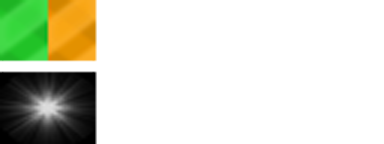
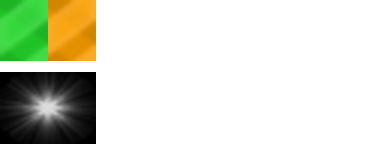
#34199 ドラムのライフゲージの下端がちょっと欠けて表示される問題を修正。
git-svn-id: http://svn.osdn.jp/svnroot/dtxmania/trunk@768 16f42ceb-6dc6-49c8-ba94-f2d53467949d

Changed region(s): [[0.0, 0.4722, 0.25, 0.5278], [0.0, 0.4167, 0.25, 0.4444], [0.0938, 0.1667, 0.125, 0.2222]]

diff --git a/DTXManiaプロジェクト/コード/ステージ/07.演奏/ドラム画面/CAct演奏Drumsゲージ.cs b/DTXManiaプロジェクト/コード/ステージ/07.演奏/ドラム画面/CAct演奏Drumsゲージ.cs
@@ -12,23 +12,6 @@ namespace DTXMania
 	internal class CAct演奏Drumsゲージ : CAct演奏ゲージ共通
 	{
 		// プロパティ
-
-//		public double db現在のゲージ値
-//		{
-//			get
-//			{
-//				return this.dbゲージ値;
-//			}
-//			set
-//			{
-//				this.dbゲージ値 = value;
-//				if( this.dbゲージ値 > 1.0 )
-//				{
-//					this.dbゲージ値 = 1.0;
-//				}
-//			}
-//		}
-
 		
 		// コンストラクタ
 
@@ -76,9 +59,10 @@ namespace DTXMania
 		{
 			if ( !base.b活性化してない )
 			{
+				#region [ 初めての進行描画 ]
 				if ( base.b初めての進行描画 )
 				{
-					for( int k = 0; k < 0x18; k++ )
+					for ( int k = 0; k < 0x18; k++ )
 					{
 						this.st白い星[ k ].x = 2 + CDTXMania.Random.Next( 4 );
 						this.st白い星[ k ].fScale = 0.2f + ( CDTXMania.Random.Next( 2 ) * 0.05f );
@@ -89,172 +73,182 @@ namespace DTXMania
 					this.ct本体振動 = new CCounter( 0, 360, 4, CDTXMania.Timer );
 					base.b初めての進行描画 = false;
 				}
+				#endregion
 				this.ct本体移動.t進行Loop();
 				this.ct本体振動.t進行Loop();
 
+				#region [ Risky残りMiss回数表示 ]
 				if ( this.bRisky && this.actLVLNFont != null )		// #23599 2011.7.30 yyagi Risky残りMiss回数表示
 				{
 					CActLVLNFont.EFontColor efc = this.IsDanger( E楽器パート.DRUMS ) ?
 						CActLVLNFont.EFontColor.Red : CActLVLNFont.EFontColor.Yellow;
-					actLVLNFont.t文字列描画( (int)(12 * Scale.X), (int)(408 * Scale.Y), nRiskyTimes.ToString(), efc, CActLVLNFont.EFontAlign.Right );
+					actLVLNFont.t文字列描画( (int) ( 12 * Scale.X ), (int) ( 408 * Scale.Y ), nRiskyTimes.ToString(), efc, CActLVLNFont.EFontAlign.Right );
 				}
+				#endregion
 
-				int num2 = ( this.dbゲージ値 == 1.0 ) ? ( (int) ( 352.0 * this.dbゲージ値 ) ) : ( (int) ( ( 352.0 * this.dbゲージ値 ) + ( 2.0 * Math.Sin( Math.PI * 2 * ( ( (double) this.ct本体振動.n現在の値 ) / 360.0 ) ) ) ) );
-				if( num2 <= 0 )
+				#region [ 緑orオレンジのゲージ表示 ]
+				const double dbゲージ最大値 = 352.0 * Scale.Y;
+				int n表示するゲージの高さ = ( this.dbゲージ値 == 1.0 ) ?
+					( (int) ( dbゲージ最大値 * this.dbゲージ値 ) ) :
+					( (int) ( ( dbゲージ最大値 * this.dbゲージ値 ) + ( 2.0 * Math.Sin( Math.PI * 2 * ( ( (double) this.ct本体振動.n現在の値 ) / 360.0 ) ) ) ) );
+
+				if ( n表示するゲージの高さ <= 0 )
 				{
 					return 0;
 				}
-				if( this.txゲージ != null )
+				if ( this.txゲージ != null )
 				{
 					this.txゲージ.vc拡大縮小倍率 = new Vector3( 1f, 1f, 1f );
 					this.txゲージ.n透明度 = 0xff;
 					this.txゲージ.b加算合成 = false;
 				}
-				int num3 = this.ct本体移動.n現在の値;
-				int y = ( 0x195 - num2 ) - num3;
-				int num5 = num2 + num3;
-				while( num5 > 0 )
+				int nCtゲージ内部上昇スクロール現在値 = (int) ( this.ct本体移動.n現在の値 * Scale.Y );
+				int n表示ゲージ最大値 = (int) ( 0x195 * Scale.Y );
+				int ybar = ( n表示ゲージ最大値 - n表示するゲージの高さ ) - nCtゲージ内部上昇スクロール現在値;
+				int height = n表示するゲージの高さ + nCtゲージ内部上昇スクロール現在値;
+				while ( height > 0 )
 				{
-					Rectangle rectangle = ( this.dbゲージ値 == 1.0 ) ?
-						new Rectangle( 0x10, 0, 0x10, 0x1b ) :
-						new Rectangle( 0, 0, 0x10, 0x1b );
-					if( y < ( 0x195 - num2 ) )
+					Rectangle rect = ( this.dbゲージ値 == 1.0 ) ?
+						new Rectangle( 48, 0, 48, 61 ) :
+						new Rectangle( 0, 0, 48, 61 );
+					#region [ clipping ]
+					if ( ybar < ( n表示ゲージ最大値 - n表示するゲージの高さ ) )
 					{
-						int num6 = ( 0x195 - num2 ) - y;
-						rectangle.Y += num6;
-						rectangle.Height -= num6;
-						y += num6;
+						int d = ( n表示ゲージ最大値 - n表示するゲージの高さ ) - ybar;
+						rect.Y += d;
+						rect.Height -= d;
+						ybar += d;
 					}
-					if( ( y + rectangle.Height ) > 0x195 )
+					if ( ( ybar + rect.Height ) > n表示ゲージ最大値 )
 					{
-						int num7 = ( y + rectangle.Height ) - 0x195;
-						rectangle.Height -= num7;
+						int num7 = ( ybar + rect.Height ) - n表示ゲージ最大値;
+						rect.Height -= num7;
 					}
-					if( rectangle.Top >= rectangle.Bottom )
+					if ( rect.Top >= rect.Bottom )
 					{
 						break;
 					}
-					Rectangle rectangle1 = rectangle;
+					#endregion
 					if ( this.txゲージ != null )
 					{
-						rectangle.X = (int) ( rectangle.X * Scale.X );
-						rectangle.Y = (int) ( rectangle.Y * Scale.Y );
-						rectangle.Width = (int) ( rectangle.Width * Scale.X );
-						rectangle.Height = (int) ( rectangle.Height * Scale.Y );
 						this.txゲージ.t2D描画(
 							CDTXMania.app.Device,
 							6 * Scale.X,
-							y * Scale.Y,
-							rectangle
+							ybar,
+							rect
 						);
 					}
-					num5 -= rectangle1.Height;
-					y += rectangle1.Height - 1;		// 横線が入る問題を、取り急ぎ対策
+					height -= rect.Height;
+					ybar += rect.Height;
 				}
-				if( this.txゲージ != null )
+				#endregion
+				#region [ 光彩 ]
+				if ( this.txゲージ != null )
 				{
-					this.txゲージ.vc拡大縮小倍率 = new Vector3( 1f, 1f, 1f );
+					//this.txゲージ.vc拡大縮小倍率 = new Vector3( 1f, 1f, 1f );
 					this.txゲージ.n透明度 = 180;
 					this.txゲージ.b加算合成 = true;
 				}
-				for( int i = 0; i < 4; i++ )
+				for ( int i = 0; i < 4; i++ )
 				{
-					Rectangle rectangle2 = new Rectangle(
-						0x40 + ( i * 0x10 ),
+					Rectangle rect = new Rectangle(
+						(int) ( ( 0x40 + ( i * 0x10 ) ) * Scale.X ),
 						0,
-						0x10,
-						0x40
+						(int) ( 0x10 * Scale.X ),
+						(int) ( 0x40 * Scale.Y )
 					);
-					int num9 = ( 0x195 - num2 ) + ( i * 0x40 );
-					if( num9 >= 0x195 )
+					#region [ clipping ]
+					int ylight = ( n表示ゲージ最大値 - n表示するゲージの高さ ) + (int) ( i * 0x40 * Scale.Y );
+					if ( ylight >= n表示ゲージ最大値 )
 					{
 						break;
 					}
-					if( ( num9 + rectangle2.Height ) > 0x195 )
+					if ( ( ylight + rect.Height ) > n表示ゲージ最大値 )
 					{
-						int num10 = ( num9 + rectangle2.Height ) - 0x195;
-						rectangle2.Height -= num10;
+						int d = ( ylight + rect.Height ) - n表示ゲージ最大値;
+						rect.Height -= d;
 					}
-					if( ( rectangle2.Top < rectangle2.Bottom ) && ( this.txゲージ != null ) )
+					#endregion
+					if ( ( rect.Top < rect.Bottom ) && ( this.txゲージ != null ) )
 					{
-						rectangle2.X = (int) ( rectangle2.X * Scale.X );
-						rectangle2.Y = (int) ( rectangle2.Y * Scale.Y + 0.5f );
-						rectangle2.Width = (int) ( rectangle2.Width * Scale.X );
-						rectangle2.Height = (int) ( rectangle2.Height * Scale.Y + 0.5f );
-
 						this.txゲージ.t2D描画(
 							CDTXMania.app.Device,
-							(int)(6 * Scale.X),
-							(int)(num9 * Scale.Y + 0.5f),
-							rectangle2
+							(int) ( 6 * Scale.X ),
+							(int) ( ylight + 0.5f ),
+							rect
 						);
 					}
 				}
-				if( this.txゲージ != null )
+				#endregion
+				#region [ ゲージ頂上の光源 ]
+				if ( this.txゲージ != null )
 				{
-					this.txゲージ.vc拡大縮小倍率 = new Vector3( 1f, 1f, 1f );
+					//this.txゲージ.vc拡大縮小倍率 = new Vector3( 1f, 1f, 1f );
 					this.txゲージ.n透明度 = 0xff;
 					this.txゲージ.b加算合成 = false;
 				}
-				Rectangle rectangle3 = new Rectangle(
-					0x30,
-					0,
-					0x10,
-					0x10
-				);
-				int num11 = 0x195 - num2;
-				if( num11 < 0x195 )
 				{
-					if( ( num11 + rectangle3.Height ) > 0x195 )
+					Rectangle rect = new Rectangle(
+						(int) ( 0x30 * Scale.X ),
+						0,
+						(int) ( 0x10 * Scale.X ),
+						(int) ( 0x10 * Scale.Y )
+					);
+					int yゲージ頂上 = n表示ゲージ最大値 - n表示するゲージの高さ;
+					if ( yゲージ頂上 < n表示ゲージ最大値 )
 					{
-						int num12 = ( num11 + rectangle3.Height ) - 0x195;
-						rectangle3.Height -= num12;
-					}
-					if( ( rectangle3.Top < rectangle3.Bottom ) && ( this.txゲージ != null ) )
-					{
-						rectangle3.X = (int) ( rectangle3.X * Scale.X );
-						rectangle3.Y = (int) ( rectangle3.Y * Scale.Y + 0.5f );
-						rectangle3.Width = (int) ( rectangle3.Width * Scale.X );
-						rectangle3.Height = (int) ( rectangle3.Height * Scale.Y + 0.5f );
-						this.txゲージ.t2D描画(
-							CDTXMania.app.Device,
-							(int)(6*Scale.X),
-							(int)(num11*Scale.Y + 0.5f),
-							rectangle3
-						);
-					}
-				}
-				if( this.txゲージ != null )
-				{
-					this.txゲージ.b加算合成 = true;
-				}
-				for( int j = 0; j < 24; j++ )
-				{
-					this.st白い星[ j ].ct進行.t進行Loop();
-					int x = 6 + this.st白い星[ j ].x;
-					int num15 = ( 0x195 - num2 ) + ( 0x160 - this.st白い星[ j ].ct進行.n現在の値 );
-					int num16 = ( this.st白い星[ j ].ct進行.n現在の値 < 0xb0 ) ? 0 : ( (int) ( 255.0 * ( ( (double) ( this.st白い星[ j ].ct進行.n現在の値 - 0xb0 ) ) / 176.0 ) ) );
-					if( ( num16 != 0 ) && ( num15 < 0x191 ) )
-					{
-						Rectangle rectangle4 = new Rectangle(
-							(int)(0*Scale.X),
-							(int)(0x20*Scale.Y),
-							(int) ( 0x20 * Scale.X ),
-							(int)(0x20*Scale.Y)
-						);
-						if( this.txゲージ != null )
+						#region [ clipping ]
+						if ( ( yゲージ頂上 + rect.Height ) > n表示ゲージ最大値 )
 						{
-							this.txゲージ.vc拡大縮小倍率 = new Vector3( this.st白い星[ j ].fScale, this.st白い星[ j ].fScale, 1f );
-							this.txゲージ.n透明度 = num16;
+							int d = ( yゲージ頂上 + rect.Height ) - n表示ゲージ最大値;
+							rect.Height -= d;
+						}
+						#endregion
+						if ( ( rect.Top < rect.Bottom ) && ( this.txゲージ != null ) )
+						{
 							this.txゲージ.t2D描画(
 								CDTXMania.app.Device,
-								(int)(x*Scale.X),
-								(int)(num15*Scale.Y+0.5f),
-								rectangle4
+								(int) ( 6 * Scale.X ),
+								(int) ( yゲージ頂上 + 0.5f ),
+								rect
 							);
 						}
 					}
 				}
+				#endregion
+				#region [ 泡 ]
+				if ( this.txゲージ != null )
+				{
+				    this.txゲージ.b加算合成 = true;
+				}
+				for ( int j = 0; j < 24; j++ )
+				{
+				    this.st白い星[ j ].ct進行.t進行Loop();
+				    int x = 6 + this.st白い星[ j ].x;
+					int y泡 = ( n表示ゲージ最大値 - n表示するゲージの高さ ) + (int) ( ( 0x160 - this.st白い星[ j ].ct進行.n現在の値 ) * Scale.Y );
+				    int n透明度 = ( this.st白い星[ j ].ct進行.n現在の値 < 0xb0 ) ? 0 : ( (int) ( 255.0 * ( ( (double) ( this.st白い星[ j ].ct進行.n現在の値 - 0xb0 ) ) / 176.0 ) ) );
+				    if ( ( n透明度 != 0 ) && ( y泡 < (int) ( 0x191 * Scale.Y ) ) )
+				    {
+				        Rectangle rect = new Rectangle(
+				            (int) ( 0 * Scale.X ),
+				            (int) ( 0x20 * Scale.Y ),
+				            (int) ( 0x20 * Scale.X ),
+				            (int) ( 0x20 * Scale.Y )
+				        );
+				        if ( this.txゲージ != null )
+				        {
+				            this.txゲージ.vc拡大縮小倍率 = new Vector3( this.st白い星[ j ].fScale, this.st白い星[ j ].fScale, 1f );
+				            this.txゲージ.n透明度 = n透明度;
+				            this.txゲージ.t2D描画(
+				                CDTXMania.app.Device,
+				                (int) ( x * Scale.X ),
+				                (int) ( y泡 + 0.5f ),
+				                rect
+				            );
+				        }
+				    }
+				}
+				#endregion
 			}
 			return 0;
 		}
@@ -272,12 +266,9 @@ namespace DTXMania
 			public CCounter ct進行;
 		}
 
-		//private CCounter ct本体移動;
-		//private CCounter ct本体振動;
-		//private double dbゲージ値;
+
 		private const int STAR_MAX = 0x18;
 		private ST白い星[] st白い星 = new ST白い星[ 0x18 ];
-		//private CTexture txゲージ;
 		//-----------------
 		#endregion
 	}
